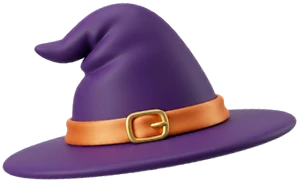
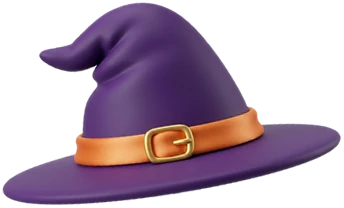
Mascot: bigger witch hat

diff --git a/src/components/mascot/smoothie-engine.ts b/src/components/mascot/smoothie-engine.ts
@@ -24,7 +24,7 @@ export const VIEW_BUST: View = { x0: 110, x1: 890, y0: -40, y1: 740 };
  * so a changed file under the same URL never reaches anyone who has visited
  * before — the query string makes it a new URL.
  */
-export const MASCOT_ASSET_VERSION = "2026-10-30";
+export const MASCOT_ASSET_VERSION = "2026-10-30b";
 export const mascotAsset = (file: string) => `/mascot/rig/${file}?v=${MASCOT_ASSET_VERSION}`;
 
 /** Gestures and moods the storefront may trigger (sad / angry / love are left out on purpose). */
@@ -119,7 +119,7 @@ const FACES: Record<string, number[]> = {
   surprised: [176, 20, 818, 568], curious: [176, 17, 858, 568], worried: [176, 17, 818, 568],
 };
 // Halloween props: boxes come from smoothlife-mascot/halloween/build_halloween.py.
-const HAT_BOX = [368, -31, 667, 151];
+const HAT_BOX = [346, -51, 690, 157];
 const PUMPKIN_BOX = [11, 740, 225, 956];
 const LAYERS: LayerDef[] = [
   // stands on the ground beside the feet — the "world" bone never moves, so it stays put when he jumps
